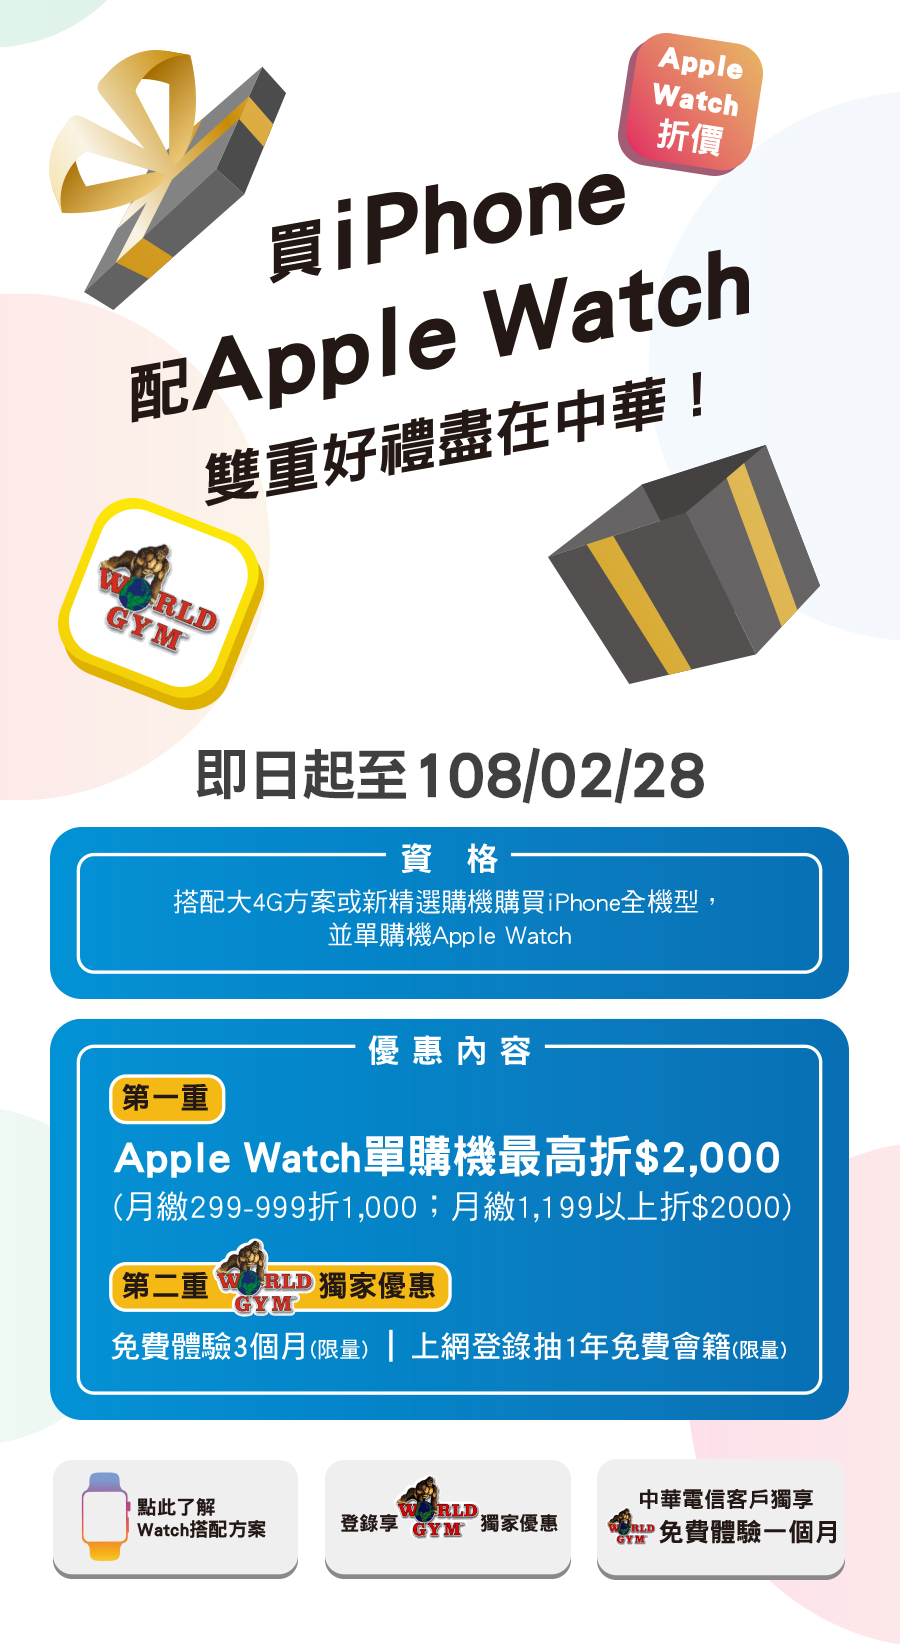
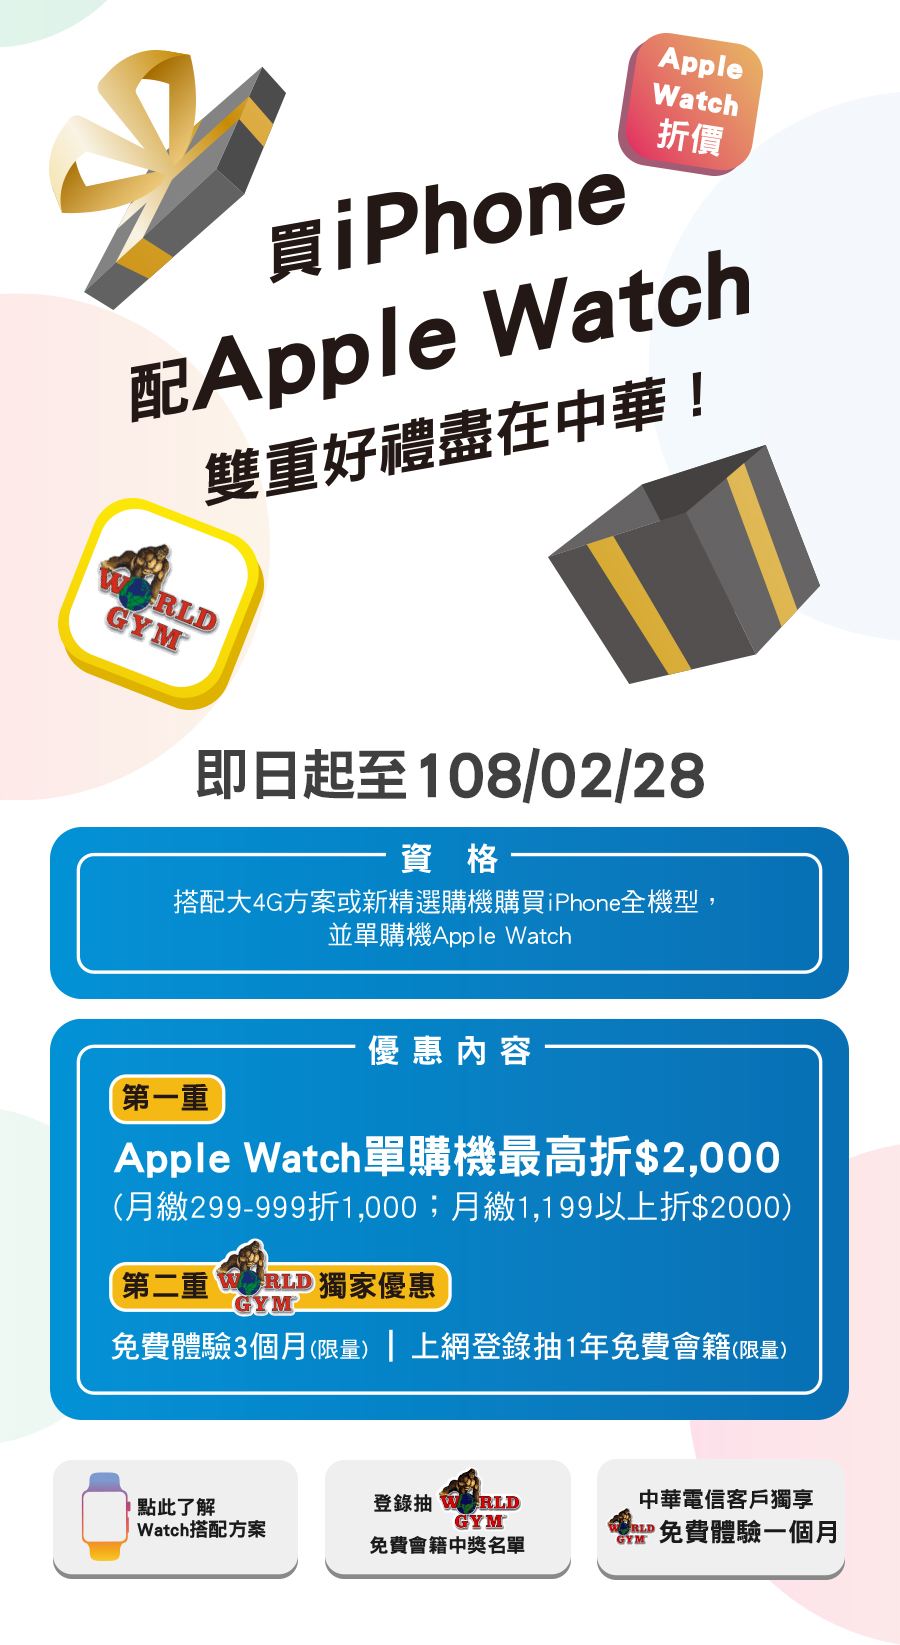
iPhone modified 20190415

Changed region(s): [[0.3733, 0.8991, 0.6222, 0.9611]]

diff --git a/demo/iPhone/iPhoneandWatch.html b/demo/iPhone/iPhoneandWatch.html
@@ -37,7 +37,7 @@
                     <a class="e_bt1_1" target="_blank" onclick="javascript:ga('send', 'event', 'iphoneXS', 'action', 'moreiPhoneXR_from_iPhoneandWatch');"
                         href="http://emomeapplewatch-crm.cdn.hinet.net/purchase.html"></a>
                     <a class="e_bt1_2" target="_blank" onclick="javascript:ga('send', 'event', 'iphoneXS', 'action', 'moreWG_from_iPhoneandWatch');"
-                        href="https://wgt.worldgymtaiwan.com/optin-2146973923499475"></a>
+                        href="http://www.worldgymtaiwan.com/news?category=2#600"></a>
                     <a class="e_bt1_3" target="_blank" onclick="javascript:ga('send', 'event', 'iphoneXS', 'action', 'WGonemonth_from_iPhoneandWatch');"
                         href="https://www.emome.net/channel?chid=106&amp;pid=4064"></a>
                     <img class="e_pc" src="assets/images/iPhone+Watch.jpg" border="0" />
@@ -67,10 +67,8 @@
 					Gym申請(不適用於FITZONE、預售俱樂部)。電信帳單適用種類包含以下幾類；電子帳單、紙本帳單、轉帳代繳收據或繳費證明(帳單上需有姓名、行動電話門號等欄位，若合併帳單之代表號非行動門號，需再附上含行動門號之之費用明細清單)。本免費體驗一個月活動係由World
 					Gym公司主辦，如有體驗相關問題請洽World Gym 24小時服務專線：04-3600-9898。
 				</li>
-				<li>上網登錄再抽World Gym免費一年會籍(限量30名)之客戶需於108/03/15 23:59前上網登錄資料完成(優惠券號、姓名、性別、行動電話號碼、電子郵件及想要使用免費會籍的店點)，上網登錄網址為：<a href="https://wgt.worldgymtaiwan.com/optin-2146973923499475"
-					 target="_blank">https://wgt.worldgymtaiwan.com/optin-2146973923499475</a>本活動將於03/29(五)公告中獎名單至World Gym活動網頁上，World
-					Gym將會主動電話通知得獎之客戶，並確認是否符合資格，本抽獎獎項僅非World
-					Gym會員適用，本活動僅限非WG現有會籍且須年滿20歲以上之中獎人或親屬使用，如轉讓親屬使用需提出證明親屬關係之證明文件(身分證或戶口名簿)，中獎人不得要求兌換現金或其他等值商品。若於108/4/30前未領取視同放棄，不得要求補發。
+				<li>上網登錄再抽World Gym免費一年會籍(限量30名)之客戶需於108/03/15 23:59前上網登錄資料完成(優惠券號、姓名、性別、行動電話號碼、電子郵件及想要使用免費會籍的店點)，上網登錄網址為：<a href="https://wgt.worldgymtaiwan.com/optin-2146973923499475">https://wgt.worldgymtaiwan.com/optin-2146973923499475</a>本活動將於03/29(五)公告中獎名單至World Gym活動網頁上(<a href="http://www.worldgymtaiwan.com/news?category=2#600">http://www.worldgymtaiwan.com/news?category=2#600</a>)，World Gym將會主動電話通知得獎之客戶，並確認是否符合資格，本抽獎獎項僅非World Gym會員適用，本活動僅限非WG現有會籍且須年滿20歲以上之中獎人或親屬使用，如轉讓親屬使用需提出證明親屬關係之證明文件(身分證或戶口名簿)，中獎人不得要求兌換現金或其他等值商品。若於108/4/30前未領取視同放棄，不得要求補發。
+
 				</li>
 				<li>中華電信與World Gym保有隨時修正、暫停、中止本活動之權利。
 				</li>
